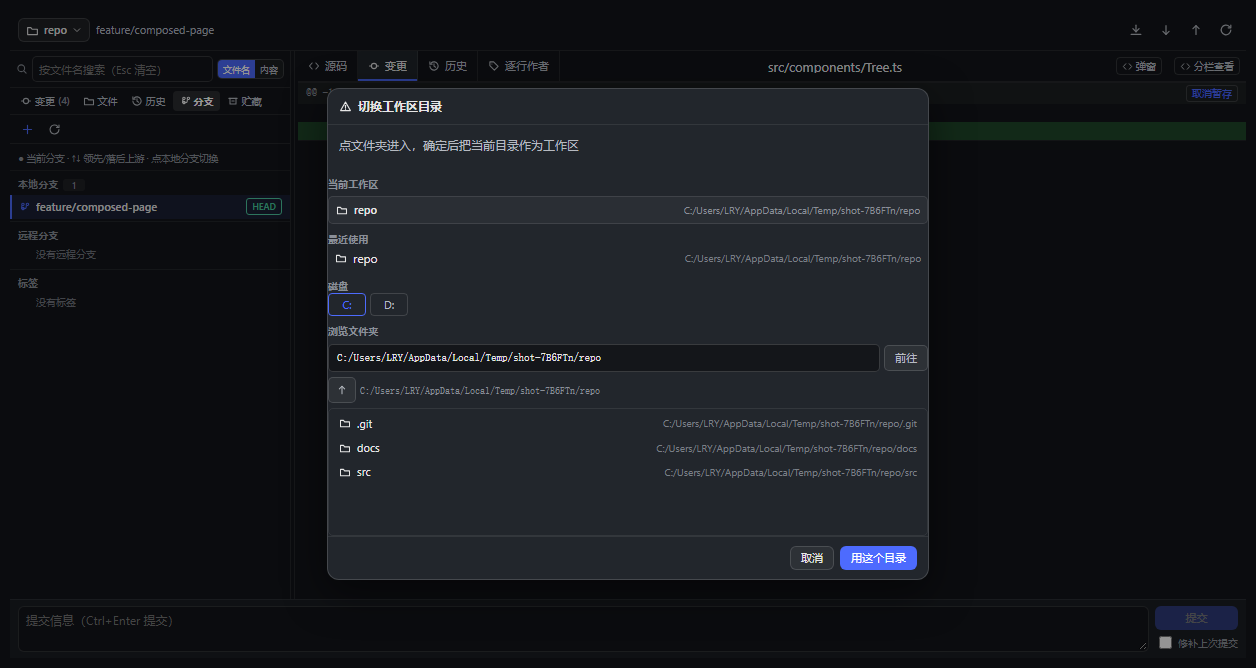
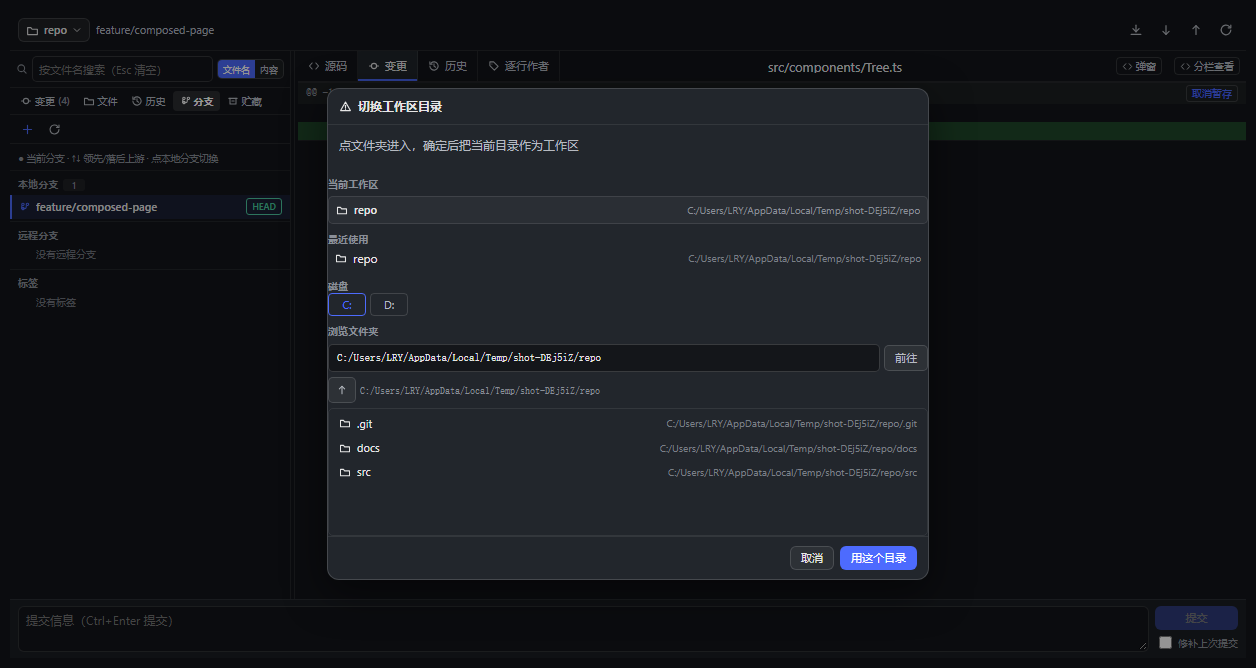
fix(source-control): paint an opaque backdrop, the page was see-through
The theme's bg-base is translucent in the workbench (the acrylic look), so the
whole page let the conversation behind it show through - most visibly in the gap
between the toolbar and the group header, where text from further down appeared.

The root and the toolbar now finish with a solid background-color. The theme colour
still paints first, so the tint is unchanged; it just no longer has holes.

diff --git a/packages/source-control/src/client.js b/packages/source-control/src/client.js
@@ -1322,7 +1322,7 @@ const NARROW_PANE_W = 225
     /* ============================== styles ============================== */
 
     const CSS = `
-.scw-root{display:flex;flex-direction:column;flex:1 1 auto;height:100%;min-height:0;color:var(--dsw-alias-label-primary,#e6e6e6);background:var(--dsw-alias-bg-base,#14161a);font:inherit;font-size:13px}
+.scw-root{display:flex;flex-direction:column;flex:1 1 auto;height:100%;min-height:0;color:var(--dsw-alias-label-primary,#e6e6e6);/* 主题底色在工作台里是半透明的（亚克力效果），整页会透出后面的对话文字；最后这一行把底色补成不透明，内容才不会从缝里透出来 */background:var(--dsw-alias-bg-base,#14161a);background-color:#14161a;font:inherit;font-size:13px}
 .scw-icon{flex:none;display:block}
 /* position:relative is the anchor for the badge; the badge sits OUTSIDE the button box
    so it never pushes the icon off centre or widens the header. */
@@ -1568,7 +1568,7 @@ const NARROW_PANE_W = 225
 .scw-commitPatch{display:flex;flex-direction:column;width:100%;height:100%;min-height:0}
 
 /* ---- mode toolbar ---- */
-.scw-toolbar{display:flex;flex:none;gap:3px;padding:3px 5px;border-bottom:1px solid var(--dsw-alias-border-l1,rgba(255,255,255,.08));overflow-x:auto;scrollbar-width:none}
+.scw-toolbar{display:flex;flex:none;gap:3px;padding:3px 5px;background-color:#14161a;border-bottom:1px solid var(--dsw-alias-border-l1,rgba(255,255,255,.08));overflow-x:auto;scrollbar-width:none}
 .scw-toolbar::-webkit-scrollbar{display:none}
 .scw-toolIcon{display:inline-flex;align-items:center;justify-content:center;flex:none;width:24px;height:22px;border:1px solid transparent;border-radius:4px;background:transparent;color:var(--dsw-alias-label-secondary,#b6bac1);cursor:pointer}
 .scw-toolIcon:hover:not(:disabled){background:var(--dsw-alias-interactive-bg-hover,rgba(255,255,255,.09));color:var(--dsw-alias-label-primary,#fff)}
@@ -5254,6 +5254,8 @@ function Page(props) {
     return { apply, name: 'dsh-workbay-source-control', __test: TEST_API }
   },
 })
+
+
 
 
 
